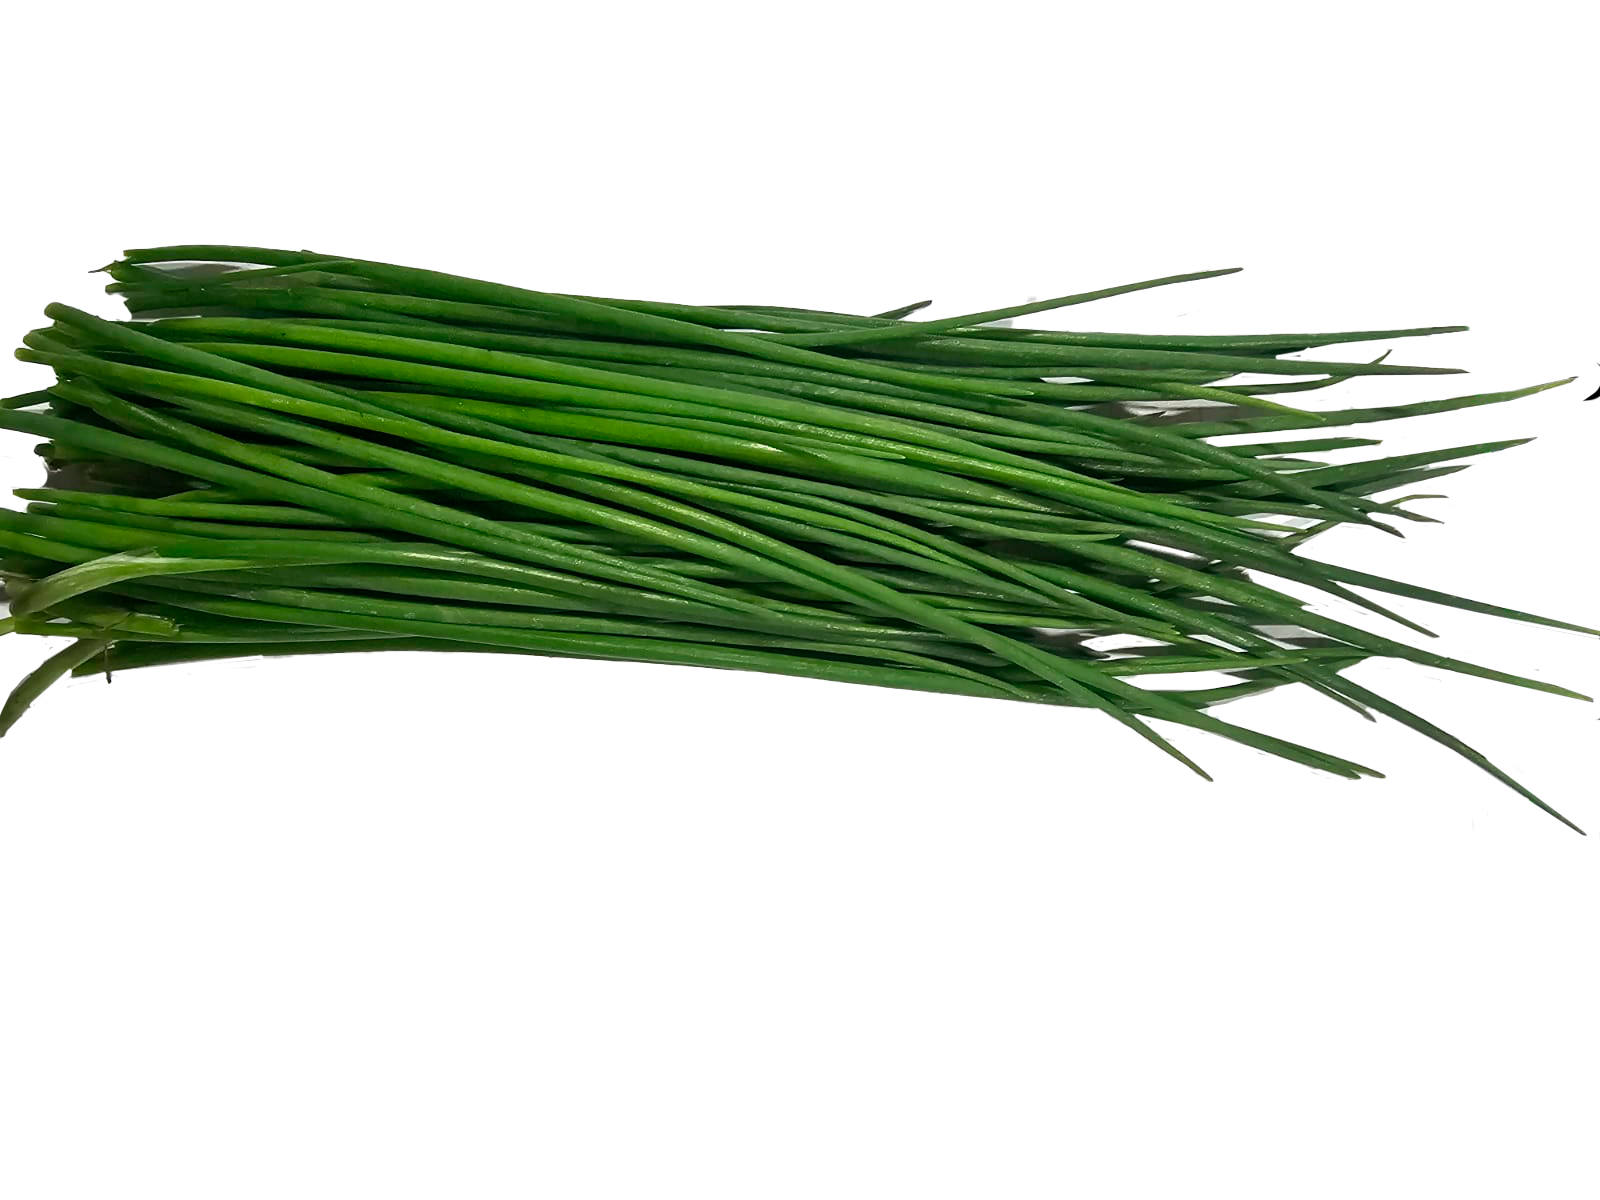
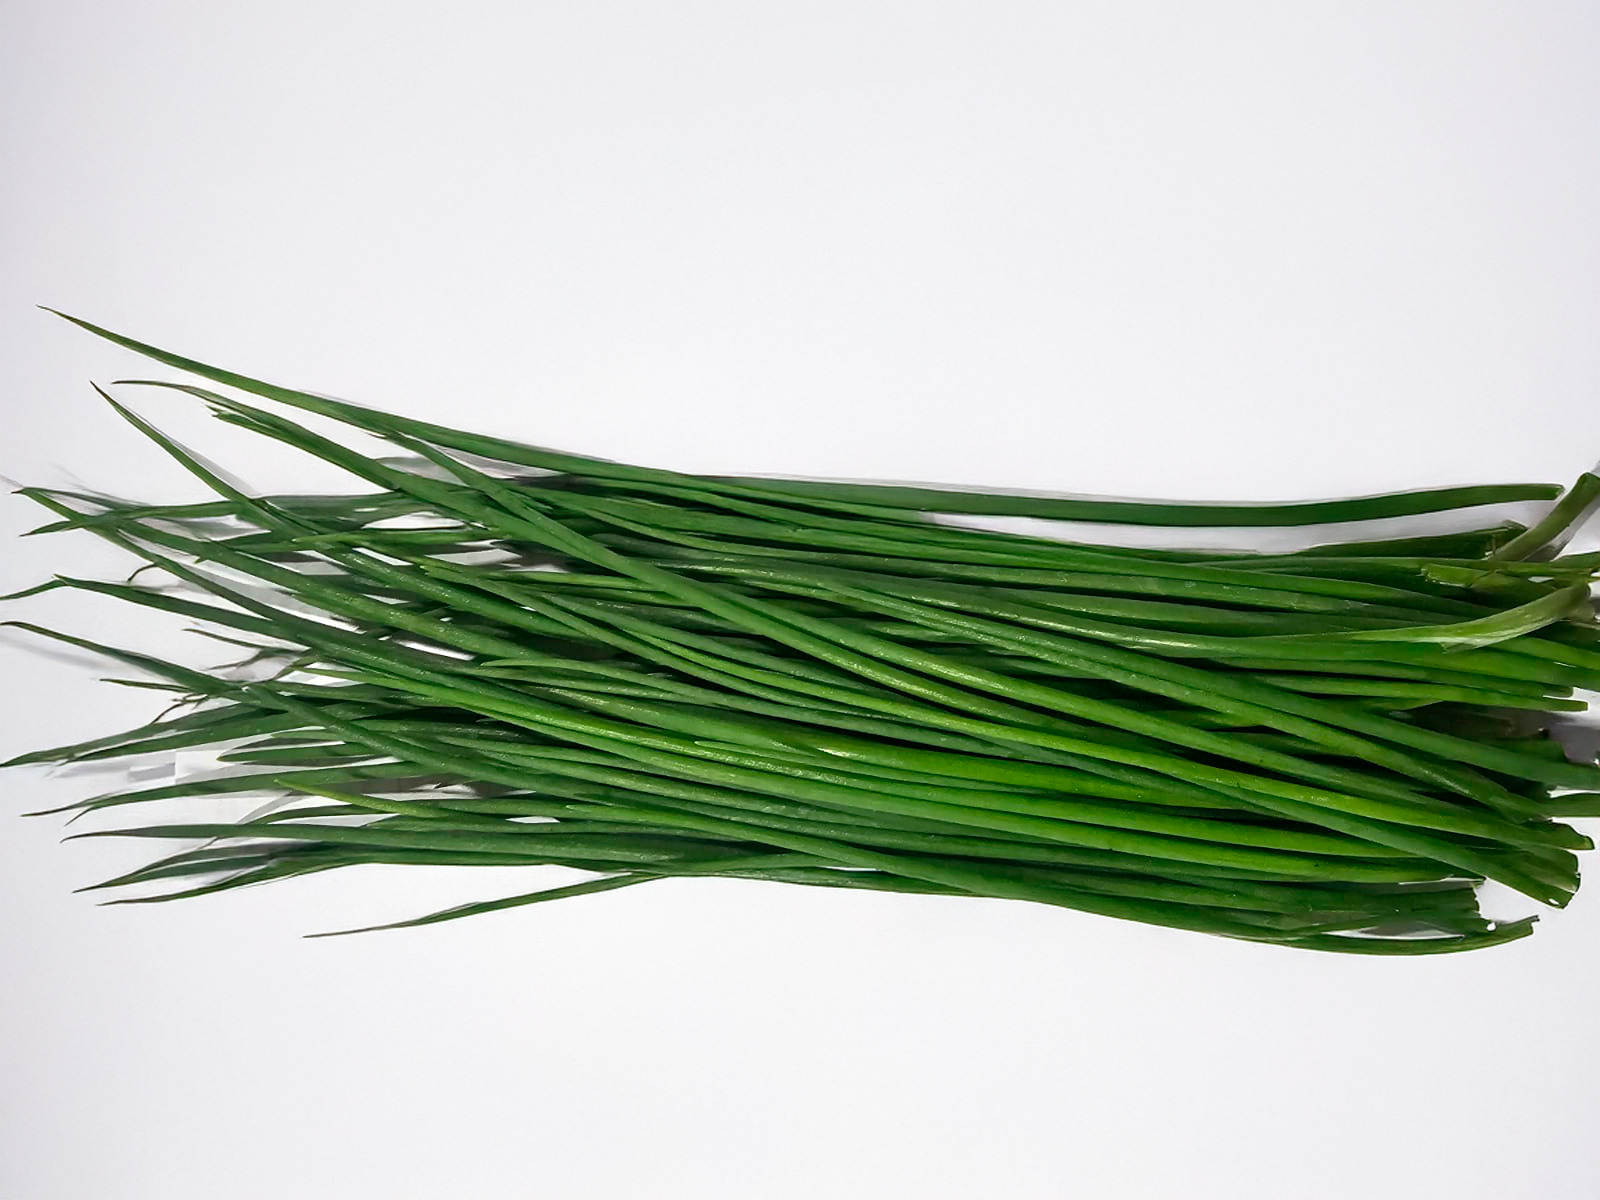
commit

diff --git a/html/hortalizas.html b/html/hortalizas.html
@@ -1,5 +1,6 @@
 <!DOCTYPE html>
 <html lang="es">
+
 <head>
   <!-- Configuración base -->
   <meta charset="UTF-8">
@@ -9,9 +10,11 @@
   <!-- SEO Principal -->
   <title>Hortalizas frescas al por mayor | Fresh Vegetables Wholesale Supplier – Splendor Herbs</title>
 
-  <meta name="description" content="Proveedor mayorista de hortalizas frescas y hierbas aromáticas desde Colombia. Splendor Herbs SAS ofrece vegetales trazables, calidad de exportación y suministro confiable para distribuidores y compradores internacionales.">
+  <meta name="description"
+    content="Proveedor mayorista de hortalizas frescas y hierbas aromáticas desde Colombia. Splendor Herbs SAS ofrece vegetales trazables, calidad de exportación y suministro confiable para distribuidores y compradores internacionales.">
 
-  <meta name="keywords" content="hortalizas frescas, fresh vegetables wholesale, wholesale vegetables supplier, proveedor mayorista de hortalizas, export vegetables colombia, herbs and vegetables supplier, fresh produce exporter">
+  <meta name="keywords"
+    content="hortalizas frescas, fresh vegetables wholesale, wholesale vegetables supplier, proveedor mayorista de hortalizas, export vegetables colombia, herbs and vegetables supplier, fresh produce exporter">
 
   <meta name="author" content="Splendor Herbs SAS">
   <meta name="robots" content="index, follow">
@@ -24,7 +27,8 @@
 
   <!-- Open Graph (WhatsApp, LinkedIn, Facebook) -->
   <meta property="og:title" content="Hortalizas frescas al por mayor | Fresh Vegetables – Splendor Herbs">
-  <meta property="og:description" content="Hortalizas frescas y hierbas aromáticas con estándares de exportación, trazabilidad y suministro constante para el mercado internacional.">
+  <meta property="og:description"
+    content="Hortalizas frescas y hierbas aromáticas con estándares de exportación, trazabilidad y suministro constante para el mercado internacional.">
   <meta property="og:type" content="website">
   <meta property="og:image" content="/splendorherbs/img/og-hortalizas.jpg">
   <meta property="og:url" content="https://splendorherbs.com/hortalizas">
@@ -32,13 +36,16 @@
   <!-- Twitter / X -->
   <meta name="twitter:card" content="summary_large_image">
   <meta name="twitter:title" content="Fresh Vegetables Wholesale Supplier – Splendor Herbs">
-  <meta name="twitter:description" content="Wholesale supplier of fresh vegetables and herbs from Colombia, focused on export markets.">
+  <meta name="twitter:description"
+    content="Wholesale supplier of fresh vegetables and herbs from Colombia, focused on export markets.">
   <meta name="twitter:image" content="/splendorherbs/img/og-hortalizas.jpg">
 
   <!-- Performance: Fuentes -->
   <link rel="preconnect" href="https://fonts.googleapis.com">
   <link rel="preconnect" href="https://fonts.gstatic.com" crossorigin>
-  <link href="https://fonts.googleapis.com/css2?family=Belanosima:wght@400;600;700&family=Montserrat:wght@400;600;700;900&display=swap" rel="stylesheet">
+  <link
+    href="https://fonts.googleapis.com/css2?family=Belanosima:wght@400;600;700&family=Montserrat:wght@400;600;700;900&display=swap"
+    rel="stylesheet">
 
   <!-- Iconos -->
   <link rel="stylesheet" href="https://cdnjs.cloudflare.com/ajax/libs/font-awesome/6.5.1/css/all.min.css">
@@ -58,21 +65,21 @@
   <main class="main-content">
     <!-- HERO -->
     <section class="galeria-simple-header">
-            <h2 data-es="HORTALIZAS FRESCAS" data-en="FRESH VEGETABLES">HORTALIZAS FRESCAS</h2>
-             <!-- NUEVO SEPARADOR -->
-            <div class="separator-leaf">
-                <span class="line"></span>
-                <i class="fas fa-leaf"></i>
-                <span class="line"></span>
-            </div>
-        </section>
+      <h2 data-es="HORTALIZAS FRESCAS" data-en="FRESH VEGETABLES">HORTALIZAS FRESCAS</h2>
+      <!-- NUEVO SEPARADOR -->
+      <div class="separator-leaf">
+        <span class="line"></span>
+        <i class="fas fa-leaf"></i>
+        <span class="line"></span>
+      </div>
+    </section>
 
     <!-- Catálogo de tiles -->
     <section class="catalogo">
       <div class="catalogo__intro">
-        <h2 data-es="Selecciona una hortaliza para ver su ficha técnica" 
-            data-en="Select a vegetable to see its technical sheet">
-            Selecciona una hortaliza para ver su ficha técnica
+        <h2 data-es="Selecciona una hortaliza para ver su ficha técnica"
+          data-en="Select a vegetable to see its technical sheet">
+          Selecciona una hortaliza para ver su ficha técnica
         </h2>
       </div>
 
@@ -92,43 +99,43 @@
 
   <!-- Scripts de Carga de Header/Footer -->
   <script>
-  // Variable global para controlar el idioma (por defecto español)
-  // Tu script de menus.js debería actualizar esto y llamar a updateLanguage()
-  let currentLang = localStorage.getItem('language') || 'es'; 
+    // Variable global para controlar el idioma (por defecto español)
+    // Tu script de menus.js debería actualizar esto y llamar a updateLanguage()
+    let currentLang = localStorage.getItem('language') || 'es';
 
-  async function loadHTML(id, file, callback) {
-    try {
-      const res = await fetch(file);
-      if (!res.ok) throw new Error(`No se pudo cargar ${file}`);
-      const text = await res.text();
-      document.getElementById(id).innerHTML = text;
-      if (callback) callback();
-    } catch (err) {
-      console.error(err);
-    }
-  }
-
-  loadHTML('header', '/splendorherbs/html/header.html', () => {
-    const script = document.createElement('script');
-    script.src = '/splendorherbs/js/menus.js';
-    document.body.appendChild(script);
-
-    setTimeout(() => {
-      const toggle = document.querySelector('.menu-toggle');
-      const nav = document.querySelector('.nav-links');
-      if (toggle && nav) {
-        toggle.addEventListener('click', () => {
-          nav.classList.toggle('active');
-          toggle.classList.toggle('open');
-        });
+    async function loadHTML(id, file, callback) {
+      try {
+        const res = await fetch(file);
+        if (!res.ok) throw new Error(`No se pudo cargar ${file}`);
+        const text = await res.text();
+        document.getElementById(id).innerHTML = text;
+        if (callback) callback();
+      } catch (err) {
+        console.error(err);
       }
-      
-      // Intentar sincronizar idioma si existe lógica externa
-      if(window.checkLanguage) window.checkLanguage();
-    }, 200);
-  });
+    }
 
-  loadHTML('footer', '/splendorherbs/html/footer.html');
+    loadHTML('header', '/splendorherbs/html/header.html', () => {
+      const script = document.createElement('script');
+      script.src = '/splendorherbs/js/menus.js';
+      document.body.appendChild(script);
+
+      setTimeout(() => {
+        const toggle = document.querySelector('.menu-toggle');
+        const nav = document.querySelector('.nav-links');
+        if (toggle && nav) {
+          toggle.addEventListener('click', () => {
+            nav.classList.toggle('active');
+            toggle.classList.toggle('open');
+          });
+        }
+
+        // Intentar sincronizar idioma si existe lógica externa
+        if (window.checkLanguage) window.checkLanguage();
+      }, 200);
+    });
+
+    loadHTML('footer', '/splendorherbs/html/footer.html');
   </script>
 
   <!-- Lógica de Hortalizas Bilingüe -->
@@ -138,28 +145,31 @@
     const HORTALIZAS = [
       {
         id: "lechuga",
-        imagen: "/splendorherbs/img/Lechuga.jpeg",
+        imagenTile: "/splendorherbs/img/Lechuga1.jpeg",
+        imagenFicha: "/splendorherbs/img/Lechuga.jpeg",
         es: {
           nombre: "Lechuga",
-          descripcion: "Crujiente, fresca y perfecta para acompañar cualquier comida. Úsala en ensaladas, wraps, hamburguesas o como base de platos ligeros. Aporta textura y frescura natural. ¡La favorita para comer rico y saludable!",
+          descripcion: "Crujiente, fresca y perfecta para acompañar cualquier comida.",
           variedad: "FRIZZE"
         },
         en: {
           nombre: "Lettuce",
-          descripcion: "Crisp, fresh, and perfect for any meal. Ideal for salads, wraps, burgers, or as a base for light dishes. Adds natural freshness and texture. A favorite for eating fresh and healthy.",
+          descripcion: "Crisp, fresh, and perfect for any meal.",
           variedad: "FRIZZE"
         }
-      },
+      }
+      ,
       {
         id: "cebollin",
-        imagen: "/splendorherbs/img/cebollin.png",
+        imagenTile: "/splendorherbs/img/galeria/cultivos8.png",
+        imagenFicha: "/splendorherbs/img/cebollin.png",
         es: {
           nombre: "Cebollin",
-          descripcion: "Suave, fresco y con ese toque de cebolla que todos aman. Ideal para huevos, ensaladas, sopas, cremas, arroces y dips. Aporta sabor sin abrumar. ¡Perfecto para darle vida a tus recetas de todos los días!",
+          descripcion: "Suave, fresco y con ese toque de cebolla que todos aman."
         },
         en: {
           nombre: "Chives",
-          descripcion: "Mild, fresh, and delicately onion-flavored. Perfect for eggs, salads, soups, creams, rice dishes, and dips. Adds flavor without overpowering. The perfect way to elevate your everyday recipes.",
+          descripcion: "Mild, fresh, and delicately onion-flavored."
         }
       },
       {
@@ -204,7 +214,7 @@
 
     const tilesContainer = document.getElementById('tiles');
     const resultsContainer = document.getElementById('results');
-    
+
     // Variable para saber qué ficha está abierta actualmente (si hay alguna)
     let activeProductId = null;
 
@@ -218,16 +228,16 @@
     }
 
     // Función para mostrar mensaje vacío
-    function showEmpty(){
+    function showEmpty() {
       activeProductId = null;
       resultsContainer.innerHTML = `<p class="empty">${LABELS[currentLang].empty}</p>`;
     }
-    
+
     // Función para crear los tiles (Miniaturas)
     // Se regeneran cuando cambia el idioma para actualizar los nombres
     function renderTiles() {
       tilesContainer.innerHTML = '';
-      
+
       if (HORTALIZAS.length === 0) {
         tilesContainer.innerHTML = '<p class="empty">No data.</p>';
         return;
@@ -235,15 +245,15 @@
 
       HORTALIZAS.forEach(producto => {
         const dataLang = producto[currentLang]; // Obtenemos datos es o en
-        
+
         const tile = document.createElement('div');
         tile.className = 'tile';
         tile.dataset.id = producto.id; // Usamos ID fijo en vez de nombre
-        
+
         const errorFallback = `this.onerror=null;this.src='/splendorherbs/img/${producto.es.nombre}.png'`;
 
         tile.innerHTML = `
-          <img src="${producto.imagen}" onerror="${errorFallback}" alt="${dataLang.nombre}">
+          <img class="card__img" src="${producto.imagen}" alt="${dataLang.nombre}">
           <div class="tile__label">${dataLang.nombre}</div>
         `;
         tilesContainer.appendChild(tile);
@@ -251,11 +261,11 @@
     }
 
     // Función para crear la ficha técnica grande
-    function createCard(producto){
+    function createCard(producto) {
       const dataLang = producto[currentLang];
       const lbl = LABELS[currentLang];
       const errorFallback = `this.onerror=null;this.src='./img/${producto.es.nombre}.png'`;
-      
+
       const card = document.createElement('article');
       card.className = 'card';
       card.innerHTML = `
@@ -264,6 +274,7 @@
         <div class="card__body">
           <h3 class="card__title"><span class="badge"></span> ${dataLang.nombre}</h3>
           <p class="meta">${dataLang.descripcion}</p>
+          <p class="meta"><b>${lbl.variety}:</b> ${dataLang.variedad}</p>
         </div>
       `;
       return card;
@@ -274,10 +285,10 @@
     function setLanguage(lang) {
       if (lang !== 'es' && lang !== 'en') return;
       currentLang = lang;
-      
+
       // 1. Actualizar textos estáticos
       updateStaticText();
-      
+
       // 2. Regenerar los tiles (para traducir los nombres abajo de las fotos)
       renderTiles();
 
@@ -298,23 +309,23 @@
     // 1. Clic en Tile -> Mostrar Ficha
     tilesContainer.addEventListener('click', (e) => {
       const tile = e.target.closest('.tile');
-      if(!tile) return;
+      if (!tile) return;
 
       const id = tile.dataset.id;
       const ficha = HORTALIZAS.find(f => f.id === id);
-      
+
       if (ficha) {
         activeProductId = id; // Guardamos cuál está activo
-        resultsContainer.innerHTML = ''; 
+        resultsContainer.innerHTML = '';
         const card = createCard(ficha);
         resultsContainer.appendChild(card);
-        card.scrollIntoView({behavior:'smooth', block:'center'});
+        card.scrollIntoView({ behavior: 'smooth', block: 'center' });
       }
     });
 
     // 2. Cerrar Ficha (Botón X)
     resultsContainer.addEventListener('click', (e) => {
-      if(e.target.matches('.card__close')) {
+      if (e.target.matches('.card__close')) {
         showEmpty();
       }
     });
@@ -322,12 +333,12 @@
     // 3. Clic fuera cierra
     document.addEventListener('click', (e) => {
       const card = resultsContainer.querySelector('.card');
-      if(!card) return; 
+      if (!card) return;
 
       const clickedInsideCard = e.composedPath().includes(card);
       const clickedTile = e.target.closest('.tile');
 
-      if(!clickedInsideCard && !clickedTile) {
+      if (!clickedInsideCard && !clickedTile) {
         showEmpty();
       }
     });
@@ -338,12 +349,13 @@
 
     // *OPCIONAL*: Si tu sistema usa un evento personalizado para cambio de idioma:
     document.addEventListener('languageChanged', (e) => {
-       // Suponiendo que el evento envía el idioma en e.detail
-       if(e.detail && e.detail.language) {
-         setLanguage(e.detail.language);
-       }
+      // Suponiendo que el evento envía el idioma en e.detail
+      if (e.detail && e.detail.language) {
+        setLanguage(e.detail.language);
+      }
     });
 
   </script>
 </body>
+
 </html>

diff --git a/html/procesos.html b/html/procesos.html
@@ -96,7 +96,7 @@
         <!-- IMAGEN -->
         <div class="proceso-col right image-col animate-from-center">
           <div class="img-box">
-            <img src="/splendorherbs/img/procesos/img4.png" alt="Material vegetal certificado">
+            <img src="/splendorherbs/img/procesos/img2.png" alt="Material vegetal certificado">
           </div>
         </div>
       </div>
@@ -105,7 +105,7 @@
       <div class="proceso-row">
         <div class="proceso-col left image-col animate-from-center">
           <div class="img-box">
-            <img src="/splendorherbs/img/procesos/img5.png" alt="Siembra y control del cultivo">
+            <img src="/splendorherbs/img/procesos/img3.png" alt="Siembra y control del cultivo">
           </div>
         </div>
         <div class="proceso-divider"></div>
@@ -257,7 +257,7 @@
         <!-- SLIDE 2 -->
         <div class="mobile-slide">
           <div class="img-box">
-            <img src="/splendorherbs/img/procesos/img4.png" alt="Material vegetal certificado">
+            <img src="/splendorherbs/img/procesos/img2.png" alt="Material vegetal certificado">
           </div>
           <h3 data-es="Material vegetal certificado" data-en="Certified plant material">
             Material vegetal certificado
